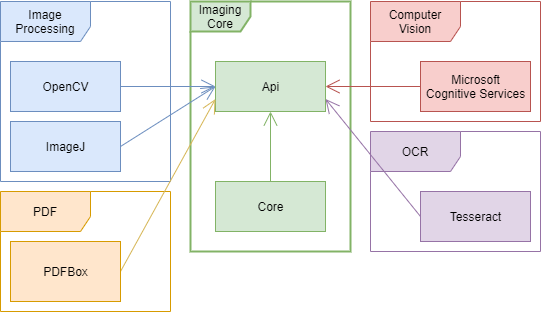
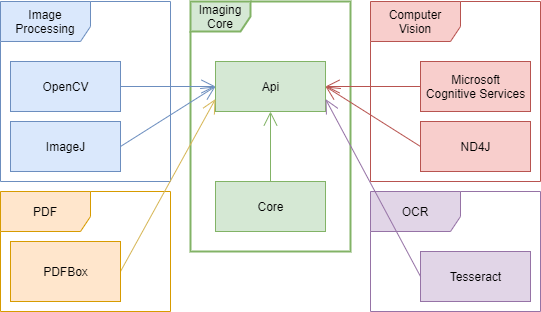
#12 Added nd4j module

Changed region(s): [[0.6211, 0.375, 1.0, 0.7788], [0.6802, 0.7788, 1.0, 1.0], [0.5915, 0.2596, 0.6802, 0.375]]

diff --git a/nd4j/src/test/java/science/aist/imaging/service/d4j/imageprocessing/wrapper/INDArrayFactoryTest.java b/nd4j/src/test/java/science/aist/imaging/service/d4j/imageprocessing/wrapper/INDArrayFactoryTest.java
@@ -1,0 +1,74 @@
+/*
+ * Copyright (c) 2021 the original author or authors.
+ * DO NOT ALTER OR REMOVE COPYRIGHT NOTICES OR THIS FILE HEADER.
+ *
+ * This Source Code Form is subject to the terms of the Mozilla Public
+ * License, v. 2.0. If a copy of the MPL was not distributed with this
+ * file, You can obtain one at https://mozilla.org/MPL/2.0/.
+ */
+
+package science.aist.imaging.service.d4j.imageprocessing.wrapper;
+
+import org.nd4j.linalg.api.ndarray.INDArray;
+import org.nd4j.linalg.factory.Nd4j;
+import org.testng.Assert;
+import org.testng.annotations.Test;
+import science.aist.imaging.api.domain.wrapper.ImageFactory;
+import science.aist.imaging.api.domain.wrapper.ImageWrapper;
+import science.aist.imaging.api.domain.wrapper.implementation.ImageFactoryFactory;
+
+import java.util.Random;
+
+/**
+ * <p>Test class for {@link INDArrayFactory}</p>
+ *
+ * @author Christoph Praschl
+ * @since 1.1
+ */
+public class INDArrayFactoryTest {
+
+    @Test
+    public void testGetImage() {
+        // given
+        ImageFactory<INDArray> imageProcessorFactory = ImageFactoryFactory.getImageFactory(INDArray.class);
+        int width = 10;
+        int height = 15;
+        INDArray img = Nd4j.zeros(height, width, 3);
+        Random rand = new Random(768457);
+
+        for (int x = 0; x < width; x++) {
+            for (int y = 0; y < height; y++) {
+                for (int c = 0; c < 3; c++) {
+                    img.putScalar(new int[]{y, x, c}, rand.nextInt(255));
+                }
+            }
+        }
+
+        int[][][] reference = new int[][][]{
+                new int[][]{new int[]{164, 214, 202}, new int[]{223, 210, 103}, new int[]{52, 93, 166}, new int[]{87, 146, 68}, new int[]{71, 194, 136}, new int[]{99, 237, 243}, new int[]{36, 194, 185}, new int[]{240, 158, 142}, new int[]{73, 49, 130}, new int[]{210, 239, 245}, new int[]{79, 198, 108}, new int[]{93, 251, 49}, new int[]{108, 220, 78}, new int[]{60, 157, 50}, new int[]{45, 134, 44}},
+                new int[][]{new int[]{154, 12, 139}, new int[]{226, 78, 107}, new int[]{250, 133, 87}, new int[]{135, 78, 3}, new int[]{197, 122, 31}, new int[]{108, 231, 14}, new int[]{118, 26, 123}, new int[]{116, 57, 62}, new int[]{181, 102, 167}, new int[]{225, 172, 127}, new int[]{242, 54, 136}, new int[]{221, 184, 89}, new int[]{97, 50, 200}, new int[]{78, 44, 150}, new int[]{74, 97, 61}},
+                new int[][]{new int[]{81, 212, 223}, new int[]{20, 222, 104}, new int[]{161, 145, 37}, new int[]{200, 160, 60}, new int[]{53, 220, 187}, new int[]{56, 82, 219}, new int[]{119, 184, 57}, new int[]{145, 148, 220}, new int[]{162, 121, 223}, new int[]{12, 213, 238}, new int[]{210, 111, 220}, new int[]{43, 179, 116}, new int[]{197, 153, 55}, new int[]{153, 243, 166}, new int[]{169, 62, 137}},
+                new int[][]{new int[]{188, 242, 191}, new int[]{171, 65, 118}, new int[]{73, 66, 103}, new int[]{30, 45, 217}, new int[]{191, 57, 151}, new int[]{28, 252, 79}, new int[]{220, 245, 178}, new int[]{158, 160, 202}, new int[]{97, 239, 206}, new int[]{220, 251, 133}, new int[]{80, 194, 213}, new int[]{70, 53, 254}, new int[]{149, 91, 232}, new int[]{139, 99, 42}, new int[]{114, 69, 123}},
+                new int[][]{new int[]{235, 54, 15}, new int[]{50, 66, 34}, new int[]{200, 64, 123}, new int[]{249, 124, 7}, new int[]{182, 17, 228}, new int[]{3, 36, 151}, new int[]{182, 202, 144}, new int[]{245, 99, 100}, new int[]{63, 141, 87}, new int[]{27, 127, 102}, new int[]{105, 240, 91}, new int[]{251, 185, 119}, new int[]{55, 213, 80}, new int[]{221, 83, 126}, new int[]{197, 99, 107}},
+                new int[][]{new int[]{72, 252, 91}, new int[]{225, 213, 188}, new int[]{71, 95, 48}, new int[]{38, 23, 200}, new int[]{252, 212, 74}, new int[]{18, 71, 69}, new int[]{179, 163, 238}, new int[]{98, 57, 39}, new int[]{140, 69, 120}, new int[]{227, 17, 217}, new int[]{197, 92, 131}, new int[]{54, 25, 251}, new int[]{125, 171, 215}, new int[]{178, 160, 233}, new int[]{33, 228, 233}},
+                new int[][]{new int[]{148, 116, 170}, new int[]{56, 153, 124}, new int[]{234, 240, 122}, new int[]{198, 130, 85}, new int[]{68, 17, 88}, new int[]{0, 4, 99}, new int[]{221, 147, 113}, new int[]{245, 136, 136}, new int[]{248, 214, 176}, new int[]{205, 27, 67}, new int[]{212, 228, 245}, new int[]{57, 61, 44}, new int[]{213, 184, 213}, new int[]{152, 195, 219}, new int[]{86, 87, 92}},
+                new int[][]{new int[]{169, 249, 111}, new int[]{9, 147, 58}, new int[]{96, 79, 69}, new int[]{185, 82, 202}, new int[]{172, 2, 160}, new int[]{242, 54, 80}, new int[]{228, 218, 253}, new int[]{79, 52, 225}, new int[]{127, 224, 159}, new int[]{23, 47, 183}, new int[]{224, 222, 58}, new int[]{153, 15, 109}, new int[]{13, 206, 189}, new int[]{172, 6, 34}, new int[]{57, 172, 50}},
+                new int[][]{new int[]{163, 253, 86}, new int[]{243, 0, 163}, new int[]{64, 211, 12}, new int[]{106, 139, 192}, new int[]{99, 64, 225}, new int[]{48, 194, 37}, new int[]{16, 221, 104}, new int[]{171, 73, 243}, new int[]{248, 124, 84}, new int[]{53, 69, 66}, new int[]{183, 230, 95}, new int[]{174, 60, 220}, new int[]{144, 133, 43}, new int[]{60, 99, 185}, new int[]{96, 219, 121}},
+                new int[][]{new int[]{180, 189, 67}, new int[]{103, 98, 27}, new int[]{9, 145, 5}, new int[]{131, 230, 43}, new int[]{246, 193, 64}, new int[]{39, 131, 220}, new int[]{54, 59, 88}, new int[]{235, 8, 152}, new int[]{106, 248, 20}, new int[]{95, 61, 24}, new int[]{241, 17, 150}, new int[]{69, 178, 192}, new int[]{180, 106, 115}, new int[]{191, 152, 156}, new int[]{94, 88, 218}}
+        };
+
+
+        // when
+        ImageWrapper<INDArray> image = imageProcessorFactory.getImage(img);
+
+        // then
+        for (int x = 0; x < width; x++) {
+            for (int y = 0; y < height; y++) {
+                for (int c = 0; c < 3; c++) {
+                    int val = (int) image.getValue(x, y, c);
+                    Assert.assertEquals(val, reference[x][y][c]);
+                }
+            }
+        }
+    }
+}

diff --git a/nd4j/src/main/java/science/aist/imaging/service/d4j/imageprocessing/wrapper/INDArrayFactory.java b/nd4j/src/main/java/science/aist/imaging/service/d4j/imageprocessing/wrapper/INDArrayFactory.java
@@ -1,0 +1,94 @@
+/*
+ * Copyright (c) 2021 the original author or authors.
+ * DO NOT ALTER OR REMOVE COPYRIGHT NOTICES OR THIS FILE HEADER.
+ *
+ * This Source Code Form is subject to the terms of the Mozilla Public
+ * License, v. 2.0. If a copy of the MPL was not distributed with this
+ * file, You can obtain one at https://mozilla.org/MPL/2.0/.
+ */
+
+package science.aist.imaging.service.d4j.imageprocessing.wrapper;
+
+import org.nd4j.linalg.api.ndarray.INDArray;
+import org.nd4j.linalg.factory.Nd4j;
+import science.aist.imaging.api.domain.wrapper.ChannelType;
+import science.aist.imaging.api.domain.wrapper.ImageFactory;
+import science.aist.imaging.api.domain.wrapper.ImageWrapper;
+import science.aist.imaging.api.domain.wrapper.implementation.ImageFactoryFactory;
+
+/**
+ * <p>Implementation of a {@link science.aist.imaging.api.domain.wrapper.ImageWrapper} for Deeplearning4j's {@link INDArray}</p>
+ *
+ * @author Christoph Praschl
+ * @since 1.1
+ */
+public class INDArrayFactory implements ImageFactory<INDArray> {
+
+    /**
+     * Do not instantiate this class directly. This constructor is only need, to work with {@link java.util.ServiceLoader}.
+     * Get yourself an instance using {@link ImageFactoryFactory#getImageFactory(Class)} method.
+     * Using {@code class = ImageProcessor.class} for this specific factory.
+     */
+    public INDArrayFactory() {
+        // Note: This is needed for usage with ServiceLoader.
+    }
+
+    @Override
+    public ImageWrapper<INDArray> getImage(int height, int width, ChannelType channel) {
+        INDArray inputNet2 = Nd4j.zeros(height, width, channel.getNumberOfChannels());
+        return getImage(height, width, channel, inputNet2);
+    }
+
+    @Override
+    public ImageWrapper<INDArray> getImage(int height, int width, ChannelType channel, INDArray image) {
+        if(image.shape().length != 3) {
+            throw new IllegalArgumentException("Only images of shape [height, width, channels] are supported");
+        }
+
+        long[] shape = image.shape();
+
+        if(height != shape[0]){
+            throw new IllegalArgumentException("Height does not match for the given image");
+        }
+
+        if(width != shape[1]){
+            throw new IllegalArgumentException("Height does not match for the given image");
+        }
+
+        if(channel.getNumberOfChannels() != image.shape()[2]){
+            throw new IllegalArgumentException("The number of channels does not match the given image");
+        }
+
+        return new INDArrayWrapper(image, channel);
+    }
+
+    @Override
+    public ImageWrapper<INDArray> getImage(INDArray image) {
+        if(image.shape().length != 3) {
+            throw new IllegalArgumentException("Only images of shape [height, width, channels] are supported");
+        }
+
+        long[] shape = image.shape();
+        long numberOfChannels = shape[2];
+
+        ChannelType c;
+        if (numberOfChannels == 4) {
+            c = ChannelType.UNKNOWN_4_CHANNEL;
+        } else if (numberOfChannels == 3) {
+            c = ChannelType.UNKNOWN_3_CHANNEL;
+        } else if (numberOfChannels == 2) {
+            c = ChannelType.UNKNOWN_2_CHANNEL;
+        } else if (numberOfChannels == 1) {
+            c = ChannelType.GREYSCALE;
+        } else {
+            c = ChannelType.UNKNOWN;
+        }
+
+        return getImage((int)shape[0], (int)shape[1], c, image);
+    }
+
+    @Override
+    public Class<INDArray> getSupportedType() {
+        return INDArray.class;
+    }
+}

diff --git a/nd4j/src/main/java/science/aist/imaging/service/d4j/imageprocessing/wrapper/INDArrayWrapper.java b/nd4j/src/main/java/science/aist/imaging/service/d4j/imageprocessing/wrapper/INDArrayWrapper.java
@@ -1,0 +1,58 @@
+/*
+ * Copyright (c) 2021 the original author or authors.
+ * DO NOT ALTER OR REMOVE COPYRIGHT NOTICES OR THIS FILE HEADER.
+ *
+ * This Source Code Form is subject to the terms of the Mozilla Public
+ * License, v. 2.0. If a copy of the MPL was not distributed with this
+ * file, You can obtain one at https://mozilla.org/MPL/2.0/.
+ */
+
+package science.aist.imaging.service.d4j.imageprocessing.wrapper;
+
+import org.nd4j.linalg.api.ndarray.INDArray;
+import science.aist.imaging.api.domain.wrapper.AbstractImageWrapper;
+import science.aist.imaging.api.domain.wrapper.ChannelType;
+import science.aist.imaging.api.domain.wrapper.ImageWrapper;
+
+/**
+ * <p>Implementation of a {@link ImageWrapper} for Deeplearning4j's {@link INDArray}</p>
+ *
+ * @author Christoph Praschl
+ * @since 1.1
+ */
+public class INDArrayWrapper extends AbstractImageWrapper<INDArray> {
+    protected INDArrayWrapper(INDArray image, ChannelType type) {
+        super(image);
+        channelType = type;
+    }
+
+    @Override
+    public void close() {
+        image.close();
+    }
+
+    @Override
+    public int getWidth() {
+        return (int)image.shape()[0];
+    }
+
+    @Override
+    public int getHeight() {
+        return (int)image.shape()[1];
+    }
+
+    @Override
+    public int getChannels() {
+        return (int)image.shape()[2];
+    }
+
+    @Override
+    public double getValue(int x, int y, int channel) {
+            return image.getDouble(y, x, channel);
+    }
+
+    @Override
+    public void setValue(int x, int y, int channel, double val) {
+            image.putScalar(new int[]{y, x, channel}, val);
+    }
+}

diff --git a/src/site/markdown/index.md b/src/site/markdown/index.md
@@ -18,6 +18,7 @@ The functionality is separated into two main modules with sub modules, described
  * **api**: Is the base module of the imaging project containing **domain objects** for images, geometric figures (e.g. points, lines, rectangles, ...), color representations and more. Also contains some further functionality as interfaces, transformers and utility classes (e.g. for type checking of images). 
  * **core**: Core consists of basic implementations for image and geometric processing. [See here for a more detailed description...](service/service_core.md )
  * **imagej**: Connector module to [ImageJ](https://imagej.net/)
+ * **nd4j**: Connector module to [ND4J](https://github.com/deeplearning4j/nd4j)
  * **microsoftcognitiveservices**: This module wraps the functionality of Microsoft´s Cognitive Services and is currently used for face detection.
  * **opencv**: This module is the core computer vision implementation and uses the [AistCV (OpenCV Java Wrapper)](https://github.com/FHOOEAIST/aistcv) [See here for a more detailed description...](service/opencv_module.md)
  * **tesseract**: This module covers OCR methods based on the [javacpp](https://github.com/bytedeco/javacpp-presets) wrapper of the [tesseract framework](https://github.com/tesseract-ocr/tesseract).
@@ -51,6 +52,9 @@ In addition to the base `ImageWrapper` there is also a `SubImageWrapper`class, t
 * `ImageWrapper<ImageProcessor>` (`ImageProcessorFactory`): Wrapper implementation to ImageJ's [ImageProcessor](https://imagej.nih.gov/ij/developer/api/ij/process/ImageProcessor.html), that supports images with 1 to 3 channels.
 * `ImageWrapper<ImageStack>` (`ImageStackFactory`):: Wrapper implementation to ImageJ's [ImageStack](https://imagej.nih.gov/ij/developer/api/ij/ImageStack.html), that are stacked [ImageProcessor](https://imagej.nih.gov/ij/developer/api/ij/process/ImageProcessor.html)s of same size.
 
+#### ND4j Module
+
+* `ImageWrapper<INDArray>` (`IndArrayFactory`): Wrapper implementation to ND4J's [INDArray](https://deeplearning4j.org/api/latest/org/nd4j/linalg/api/ndarray/INDArray.html).
 
 ### Image function
 
